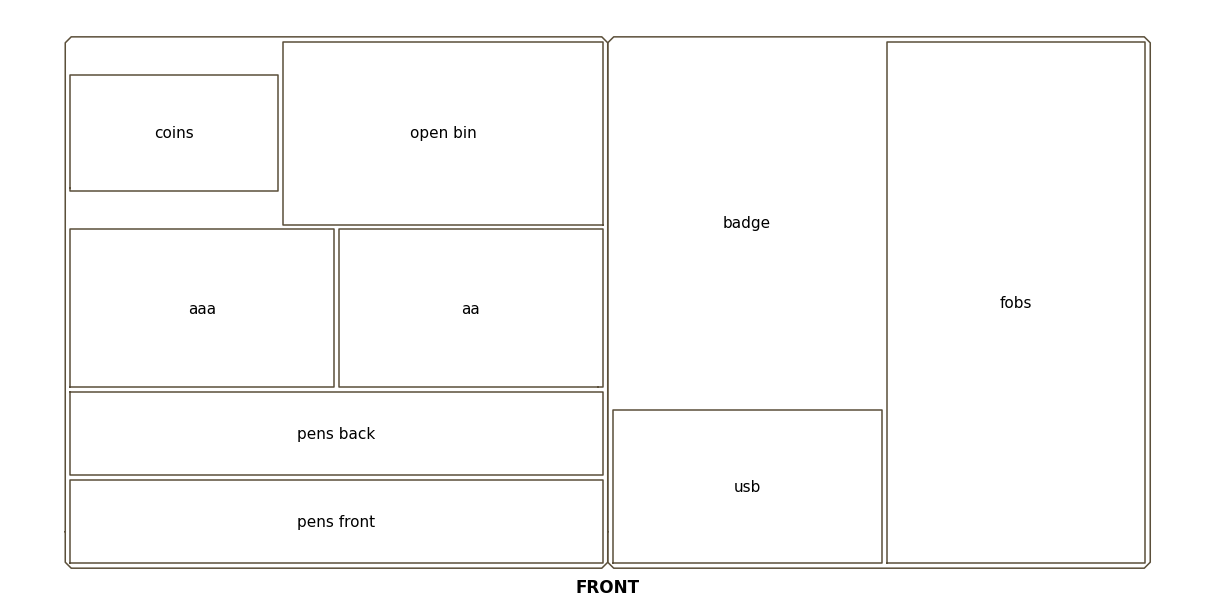
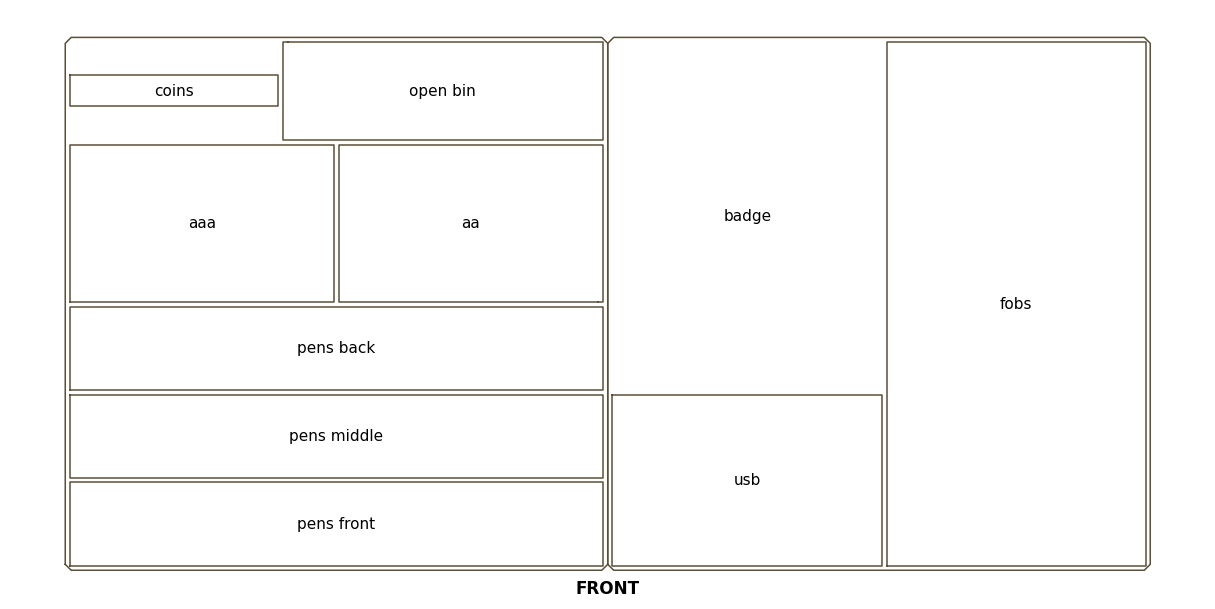
Tray insert rev 2: tests, regenerated STLs and fit tests, README

diff --git a/desk-drawer-tray-insert/test_create_insert.py b/desk-drawer-tray-insert/test_create_insert.py
@@ -36,14 +36,17 @@ def test_each_half_has_the_planned_envelope(side):
     assert math.isclose(h, ci.HEIGHT, abs_tol=0.02)
 
 
-MIN_GAP = 0.4        # per side; less and a slightly out-of-square tray binds it
+FIT_TESTED = (364.5, 178.5)     # printed 2026-09-23: fit, but ~1 mm loose all around
 
 
-def test_both_halves_drop_into_the_tray_with_a_gap_all_round():
+def test_the_halves_take_up_the_looseness_the_fit_test_showed():
+    """The measured tray (365.5 x 179.5) is evidently a little bigger than measured:
+    outlines built 1 mm under it dropped in with ~1 mm to spare. Richard: "just do
+    1mm" -- so the pair grows 1 mm each way over what was fit-tested."""
     across = HALVES["left"].extents[0] + HALVES["right"].extents[0]
     front_to_back = max(m.extents[1] for m in HALVES.values())
-    assert (ci.TRAY_W - across) / 2 >= MIN_GAP, f"{across:.2f} mm across"
-    assert (ci.TRAY_D - front_to_back) / 2 >= MIN_GAP, f"{front_to_back:.2f} mm deep"
+    assert math.isclose(across, FIT_TESTED[0] + 1.0, abs_tol=0.02), f"{across:.2f} mm across"
+    assert math.isclose(front_to_back, FIT_TESTED[1] + 1.0, abs_tol=0.02), f"{front_to_back:.2f} mm deep"
 
 
 def test_walls_stay_below_the_rim():
@@ -96,7 +99,8 @@ def test_neighbouring_bays_are_separated_by_a_wall(side):
     m, b = HALVES[side], ci.bays(side)
     z = ci.HEIGHT / 2
     pairs = {
-        "left": [("pens_front", "pens_back"), ("pens_back", "aaa"), ("aaa", "aa"),
+        "left": [("pens_front", "pens_middle"), ("pens_middle", "pens_back"),
+                 ("pens_back", "aaa"), ("aaa", "aa"),
                  ("aaa", "coins"), ("coins", "open_bin"), ("aa", "open_bin")],
         "right": [("usb", "badge"), ("badge", "fobs"), ("usb", "fobs")],
     }[side]
@@ -114,11 +118,13 @@ def test_neighbouring_bays_are_separated_by_a_wall(side):
 # --- the measured things fit ------------------------------------------------
 
 def test_the_badge_has_room_on_every_side():
-    """Stood upright: the 70 mm side runs across, the 110 mm side front to back."""
+    """Stood upright: the 70 mm side runs across, the 110 mm side front to back.
+    The sides get finger room; the ends gave some up (3 mm) to line the USB wall
+    up with the left half, which Richard approved."""
     bay = ci.bays("right")["badge"]
     long_side, short_side = ci.BADGE
     assert (bay.w - short_side) / 2 >= 5.0
-    assert (bay.d - long_side) / 2 >= 5.0
+    assert (bay.d - long_side) / 2 >= 3.0
 
 
 def test_the_cards_lie_in_the_badge_pocket():
@@ -148,9 +154,22 @@ def test_batteries_lie_flat_in_their_bay(name, cell):
     assert ci.FLOOR + nested_two_layers < ci.HEIGHT, f"a second layer of {cell} sticks out"
 
 
-def test_pens_and_screwdrivers_lie_full_length():
-    for name in ("pens_front", "pens_back"):
-        assert ci.bays("left")[name].w >= ci.LONGEST_TOOL
+def test_three_full_length_channels_one_for_the_letter_opener():
+    """Pens, screwdrivers and the letter opener: three channels the same size."""
+    channels = [ci.bays("left")[n] for n in ("pens_front", "pens_middle", "pens_back")]
+    for bay in channels:
+        assert bay.w >= ci.LONGEST_TOOL
+        assert math.isclose(bay.d, ci.PEN_CHANNEL, abs_tol=0.01)
+
+
+def test_the_right_halfs_divider_lines_up_with_the_left_halfs():
+    left, right = HALVES["left"], HALVES["right"]
+    wall_y = ci.bays("left")["pens_middle"].y1 + ci.WALL / 2
+    z = ci.HEIGHT / 2
+    assert _solid(left, ci.HALF_W / 2, wall_y, z)
+    usb = ci.bays("right")["usb"]
+    assert _solid(right, usb.cx, wall_y, z), "right half's wall is not in line"
+    assert math.isclose(usb.y1, ci.bays("left")["pens_middle"].y1, abs_tol=0.01)
 
 
 # --- the shaped bays ---------------------------------------------------------

diff --git a/desk-drawer-tray-insert/README.md b/desk-drawer-tray-insert/README.md
@@ -2,7 +2,7 @@
 
 A two-piece divider insert for the wooden tray in the credenza drawer. The tray is
 365.5 × 179.5 × 30 mm inside. That's too long for the P2S bed, so the insert
-prints as two halves of 182.25 × 178.5 × 29 mm that sit side by side. The tray's
+prints as two halves of 182.75 × 179.5 × 29 mm that sit side by side. The tray's
 own walls hold them together, so they need no joint.
 
 ![layout](preview-layout.png)
@@ -11,16 +11,17 @@ Front is at the bottom of the picture: the side nearest you with the drawer open
 
 | Bay | Size (mm) | For |
 |---|---|---|
-| pens front / pens back | 179 × 28 | pens and precision screwdrivers, lying full length |
+| pens front / pens middle | 180 × 28 | pens and precision screwdrivers, lying full length |
+| pens back | 180 × 28 | the letter opener |
 | aaa / aa | 89 × 53 | batteries lying front to back, up to two nested layers |
-| coins | 70 × 61.5 | coins; the front and back floor edges curve up so coins slide out |
-| open bin | 107 × 61.5 | small odds and ends |
-| badge | 90 × 122, 12 deep | badge in its holder (110 × 70) standing upright, credit cards on top; raised floor with a finger dip on each long side |
-| usb | 90 × 52 | USB sticks and SD cards |
-| fobs | 87 × 175 | both car key fobs (95 × 55 and 80 × 50) end to end, no divider |
+| coins | 70 × 33 | coins; the front and back floor edges curve up so coins slide out |
+| open bin | 108 × 33 | small odds and ends |
+| badge | 91 × 117, 12 deep | badge in its holder (110 × 70) standing upright, credit cards on top; raised floor with a finger dip on each long side |
+| usb | 91 × 58 | USB sticks and SD cards; its back wall lines up with the left half's wall behind the second pen channel |
+| fobs | 87 × 176 | both car key fobs (95 × 55 and 80 × 50) end to end, no divider |
 
 Either half can be turned 180° or swapped with the other. A 90° turn won't
-fit, because the half is 2.75 mm longer than the tray is deep.
+fit, because the half is 3.25 mm longer than the tray is deep.
 
 ## Files
 
@@ -40,8 +41,10 @@ fit, because the half is 2.75 mm longer than the tray is deep.
 ## Printing
 
 1. **Fit test first**, in any spare filament. Print both outlines, drop them into
-   the tray side by side, then set both key fobs in the right-hand lane. If
-   the outlines bind, lower `CLEAR` (0.5 mm per side). If they rattle, raise it.
+   the tray side by side, then set both key fobs in the right-hand lane. The
+   first fit test (2026-09-23, `CLEAR` 0.5 mm per side) sat about 1 mm loose, so
+   `CLEAR` is now 0 and the halves are the tray's measured size. If they bind,
+   raise `CLEAR`; if they still rattle, lower it.
 2. **The halves:** Bambu PLA Wood, White Oak, the closest match to the tray's
    pale wood. Dry it first (the wood powder takes on moisture), and use the
    0.4 mm nozzle; Bambu says PLA Wood is not compatible with the 0.2 mm one.
